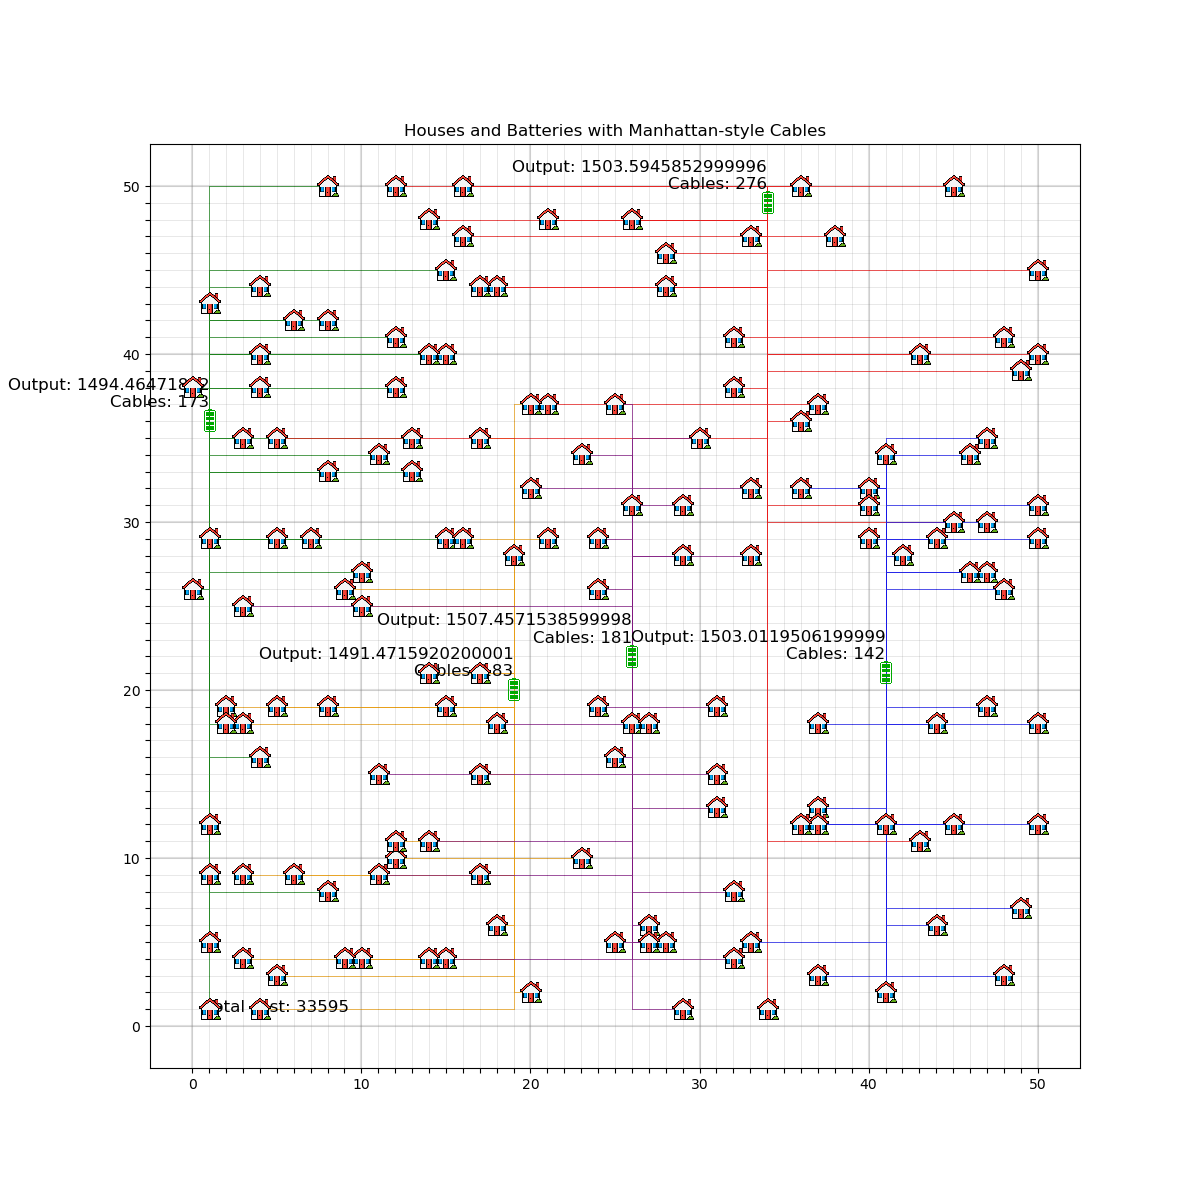
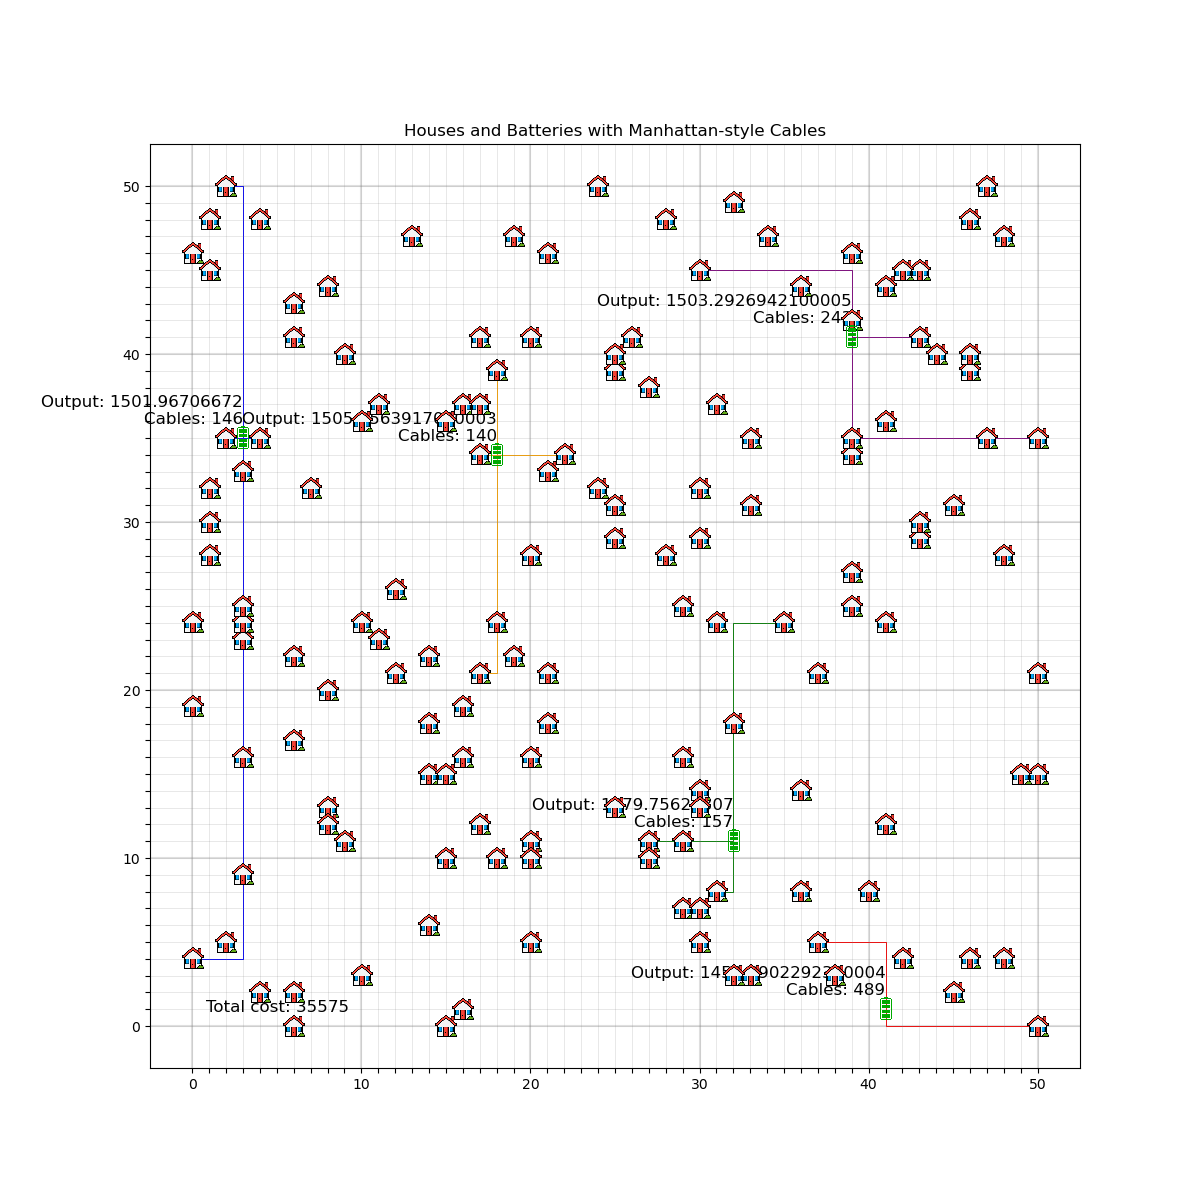
added a cable connect for nearest object

diff --git a/code/helpers/visualize.py b/code/helpers/visualize.py
@@ -54,9 +54,9 @@ def visualize(district, district_number):
 
     # Store the colors of the batteries to later give the cables that color
     battery_colors = ['orange', 'green', 'red', 'blue', 'purple']
-
+    
     # Plot batteries
-    for battery in experiment_instance.batteries:
+    for index, battery in enumerate(district.batteries):
         plot_battery(battery_image, battery.x, battery.y)
         
         # Add 5000 to the total cost for every battery
@@ -83,6 +83,14 @@ def visualize(district, district_number):
         # Every cable adds 9 to the total cost, since this is the cost formula
         total_cost += total_cables * 9
 
+        #Fix for nearest object to draw cables connected to cables
+        for cable in district.cables:
+            #loop over the batteries by their color index and plot them if connected to a cable
+            battery_color_index = next((index for index, battery in enumerate(district.batteries) if cable.connected_battery == battery), None)
+            if battery_color_index is not None:
+                plt.plot([cable.start_x, cable.end_x], [cable.start_y, cable.end_y], linewidth=0.5, color=battery_colors[battery_color_index], zorder=0)
+
+
         # Annotate the battery with the total output and total cables
         plt.annotate(f'Output: {total_output}\nCables: {total_cables}', 
                     (battery.x, battery.y), textcoords="offset points", 
@@ -101,6 +109,7 @@ def visualize(district, district_number):
     plt.annotate(f'Total cost: {total_cost}', (0, 0), textcoords="offset points", 
                 xytext=(10,10), ha='left', fontsize=12, color='black')
 
-    return fig, ax
-
+    plt.title('Houses and Batteries with Manhattan-style Cables')
+    plt.savefig(f"data/output_data/plots/district{district_number}.png")
+    plt.close(fig)
 

diff --git a/simulate.py b/simulate.py
@@ -4,6 +4,7 @@ from code.algorithm.random_alg import RandomAlgorithm
 from code.algorithm.nearest_battery import nearest_battery
 from code.algorithm.nearest_object import nearest_object
 import matplotlib.pyplot as plt
+import time
 
 
 class Simulate_algorithm:
@@ -19,9 +20,13 @@ class Simulate_algorithm:
         """
         simulates the algorithm x mount of times
         """
+
+        #Create a dynamic plot (updated with each iteration) thats empty for now
+        plt.ion()
+        fig, ax = plt.subplots()
+
         count = 0
         for i in range(self.iterations):
-
 
             district1 = District(district1_houses, district1_batteries)
             # Apply the Greedy algorithm to connect houses to batteries
@@ -38,6 +43,18 @@ class Simulate_algorithm:
             total_costs = district1.calculate_totals()
             self.costs.append(total_costs)
 
+        #     #change the plot for every iteration
+        #     #clear the previous plotted data and plot new data
+        #     ax.clear()
+        #     ax.hist(self.costs, bins=50)
+        #     ax.set_xlabel("Costs")
+        #     ax.set_ylabel("Frequency")
+        #     plt.title("live costs simulation")
+        #     plt.draw()
+        #     plt.pause(0.1)
+
+        # plt.ioff()
+        # plt.show()
 
         return self.costs
     

diff --git a/main.py b/main.py
@@ -28,13 +28,12 @@ def main():
         print(f'District {i+1}')
         # set up experiment
         experiment = District(districts_houses[i], districts_batteries[i])
-        random_instance = nearest_battery(experiment)
+        random_instance = nearest_object(experiment)
         random_instance.connect_houses_to_batteries()
         experiment.calculate_totals()
         
          # check experiment
         output_data = experiment.check_50()
-
 
 
         # # export to json file this can be muted
@@ -51,5 +50,6 @@ def main():
         #     frame_fig, frame_ax = visualize(experiment, n)
         #     frames.append([frame_ax])
 
+        visualize(experiment, i)
 if __name__ == "__main__":
     main()
